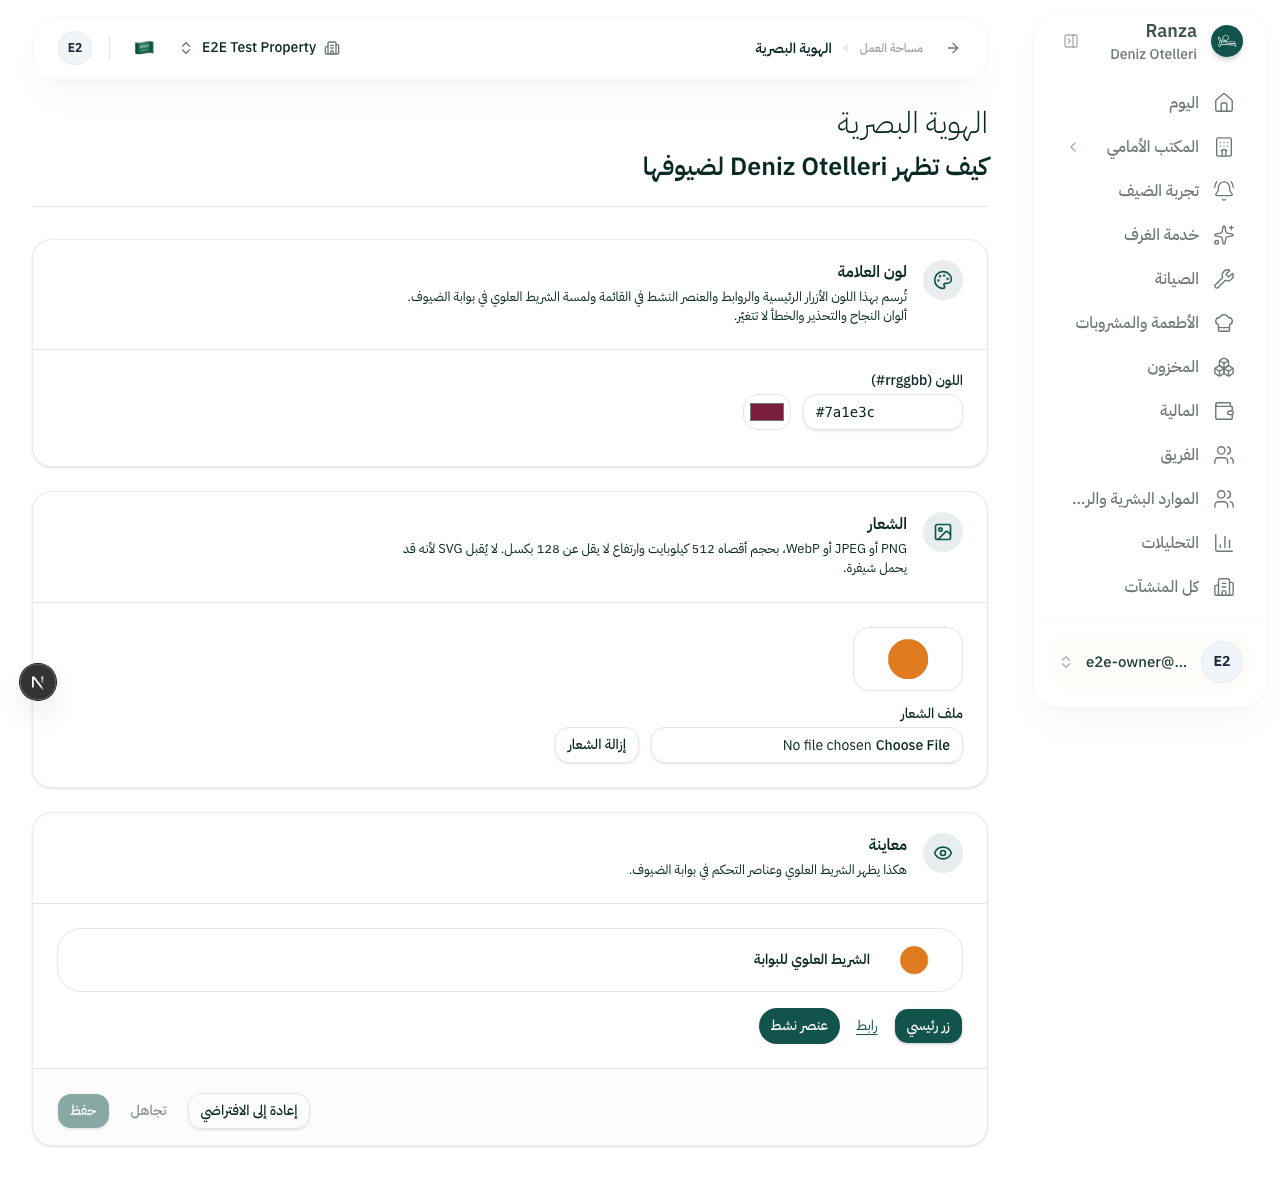
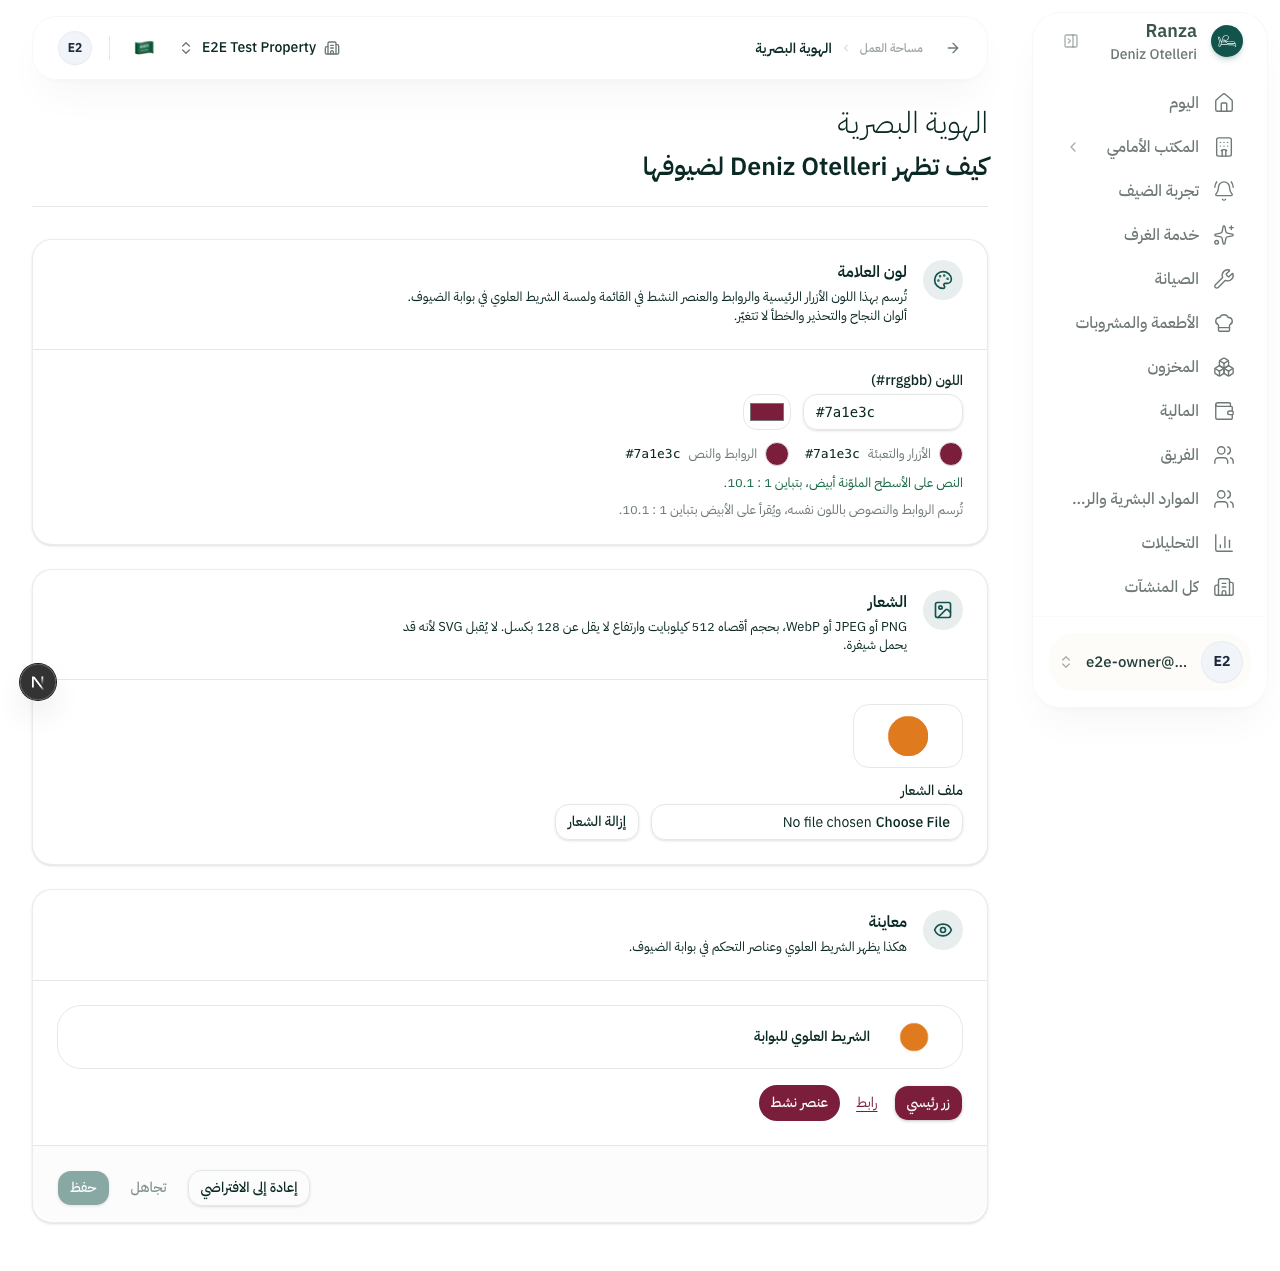
fix(branding): the preview draws the saved brand before the server has judged it, and an Arabic contrast ratio reads left to right

diff --git a/apps/operator-workspace/src/messages.ts b/apps/operator-workspace/src/messages.ts
@@ -7668,11 +7668,11 @@ export const messages: Record<SupportedLocale, Messages> = {
       defaultTheme: "السمة الافتراضية",
       colorInvalid: "اكتب اللون بالشكل #0f5132، مع # وستة أرقام.",
       colorReadable:
-        "النص على الأسطح الملوّنة {foreground}، بتباين {ratio} : 1.",
+        "النص على الأسطح الملوّنة {foreground}، بتباين \u2066{ratio} : 1\u2069.",
       colorTextSame:
-        "تُرسم الروابط والنصوص باللون نفسه، ويُقرأ على الأبيض بتباين {ratio} : 1.",
+        "تُرسم الروابط والنصوص باللون نفسه، ويُقرأ على الأبيض بتباين \u2066{ratio} : 1\u2069.",
       colorTextDarker:
-        "تُرسم الروابط والنصوص بظلّ أغمق من اللون نفسه ليبقى مقروءًا على الأبيض: \u2066{shade}\u2069 ({ratio} : 1).",
+        "تُرسم الروابط والنصوص بظلّ أغمق من اللون نفسه ليبقى مقروءًا على الأبيض: \u2066{shade}\u2069 (\u2066{ratio} : 1\u2069).",
       swatchFill: "الأزرار والتعبئة",
       swatchText: "الروابط والنص",
       foreground: { white: "أبيض", black: "أسود" },

diff --git a/tests/browser/branding.spec.ts b/tests/browser/branding.spec.ts
@@ -360,6 +360,14 @@ test("BR-S1-33: the Branding screen reads right to left in Arabic with the colou
   await expect(field).toHaveAttribute("dir", "ltr");
   await expect(field).toHaveValue(BURGUNDY);
   await expect(page.getByText("لون العلامة")).toBeVisible();
+  // The server's verdict on the saved colour, which is drawn under it.
+  await expect(
+    page.getByText(/تُرسم الروابط والنصوص باللون نفسه/),
+  ).toBeVisible();
+  await expect(page.getByTestId("brand-preview").getByRole("button")).toHaveCSS(
+    "background-color",
+    BURGUNDY_RGB,
+  );
 
   await page.screenshot({
     fullPage: true,

diff --git a/apps/operator-workspace/src/features/branding/components/branding-view.tsx b/apps/operator-workspace/src/features/branding/components/branding-view.tsx
@@ -133,7 +133,10 @@ export function BrandingView({
           foreground: verdict.foreground,
           text: verdict.textColor,
         })
-      : candidate === "" &&
+      : // The saved colour, until the server has judged what was typed: what is
+        // there already needs no judging, and a preview that waited for it
+        // would draw the default theme for a moment under a saved brand.
+        candidate === savedColor &&
           brand.primaryColor &&
           brand.primaryForeground &&
           brand.primaryText
